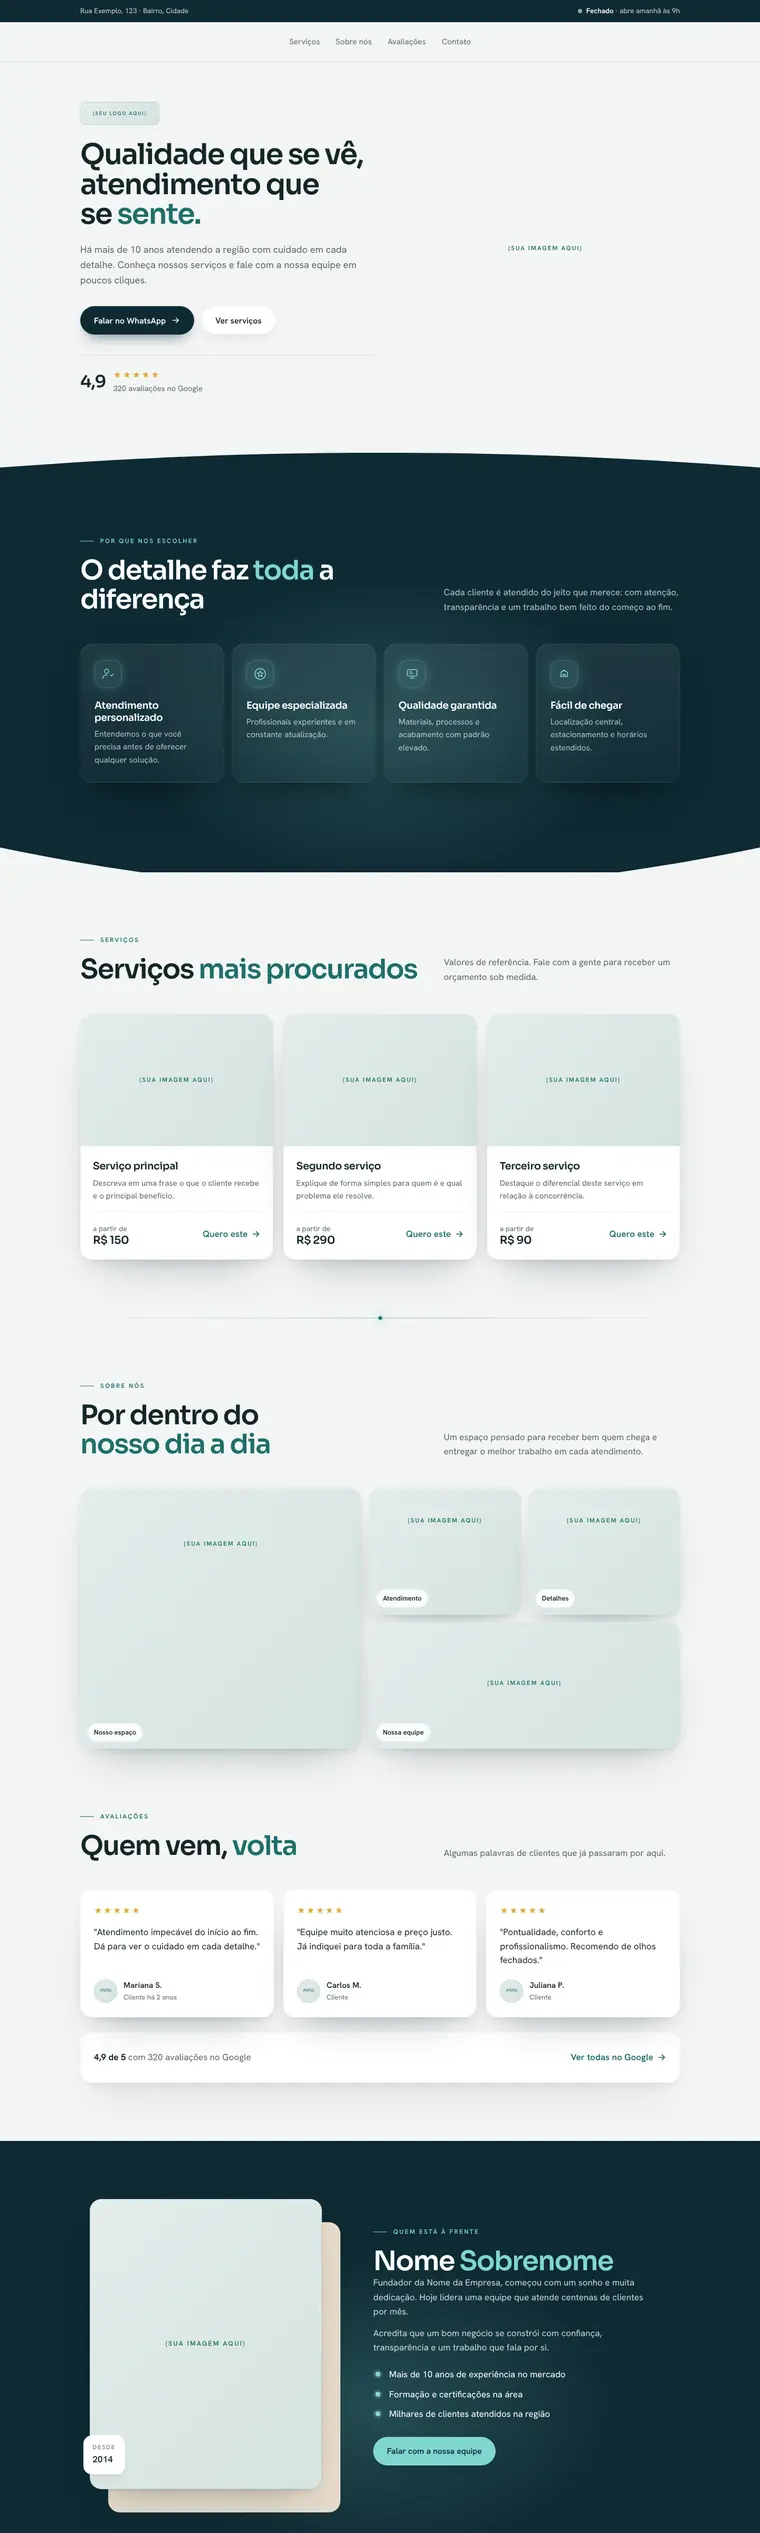
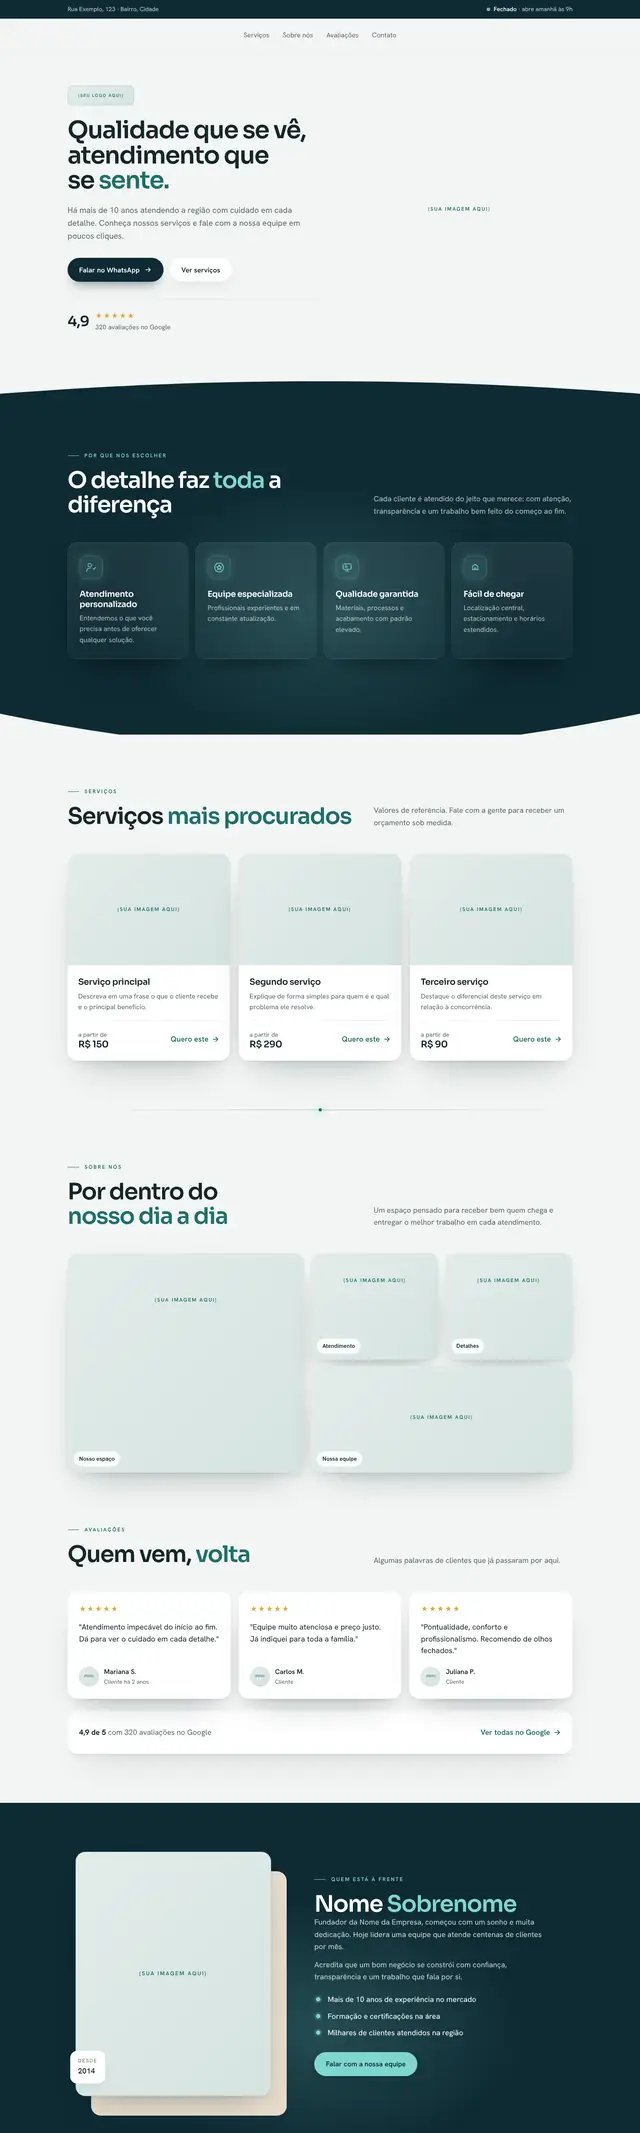
Paginas prontas: imagens responsivas e fonte sem bloqueio para PageSpeed
Claude-Session: https://claude.ai/code/session_01EaM6VvDLUoZy8CCgGzWRPs

Changed region(s): [[0.1875, 0.2166, 0.2188, 0.2475]]

diff --git a/ketlin-espinoza-site/paginas-prontas.html b/ketlin-espinoza-site/paginas-prontas.html
@@ -11,7 +11,7 @@
 <meta name="theme-color" content="#170930">
 <link rel="preconnect" href="https://fonts.googleapis.com">
 <link rel="preconnect" href="https://fonts.gstatic.com" crossorigin>
-<link href="https://fonts.googleapis.com/css2?family=Poppins:wght@400;500;600;700;800&display=swap" rel="stylesheet">
+<link rel="preload" as="style" href="https://fonts.googleapis.com/css2?family=Poppins:wght@400;500;600;700;800&display=swap"><link href="https://fonts.googleapis.com/css2?family=Poppins:wght@400;500;600;700;800&display=swap" rel="stylesheet" media="print" onload="this.media='all'"><noscript><link href="https://fonts.googleapis.com/css2?family=Poppins:wght@400;500;600;700;800&display=swap" rel="stylesheet"></noscript>
 <style>
 /* =========================================================
    CORES E FONTES (identidade ketlinespinozadesign.com)
@@ -305,7 +305,7 @@ document.addEventListener('click',function(e){if(!window.fbq||!e.target.closest)
 <body>
 
 <!-- 1. LOGO + PRÉ-HEADLINE -->
-<div class="logo-bar"><img src="/imagens/paginas-prontas/pp-0dfd213a83.webp" alt="Páginas Prontas para Personalizar com IA" width="640" height="159"></div>
+<div class="logo-bar"><img src="/imagens/paginas-prontas/pp-0dfd213a83.webp" srcset="/imagens/paginas-prontas/pp-0dfd213a83-320.webp 320w, /imagens/paginas-prontas/pp-0dfd213a83.webp 640w" sizes="190px" alt="Páginas Prontas para Personalizar com IA" width="640" height="159"></div>
 <div class="pre"><p>Você precisa de uma página, mas <span>trava toda vez</span> que tenta criar?</p></div>
 
 <!-- 2. HERO -->
@@ -320,7 +320,7 @@ document.addEventListener('click',function(e){if(!window.fbq||!e.target.closest)
         <span>Publicação grátis</span>
       </div>
     </div>
-    <img class="hero-img" src="/imagens/paginas-prontas/pp-d163bc916a.webp" alt="Páginas Prontas para Personalizar com IA no notebook e no celular" width="900" height="1041" fetchpriority="high">
+    <img class="hero-img" src="/imagens/paginas-prontas/pp-d163bc916a.webp" srcset="/imagens/paginas-prontas/pp-d163bc916a-540.webp 540w, /imagens/paginas-prontas/pp-d163bc916a.webp 900w" sizes="(max-width:520px) 90vw, (max-width:860px) 480px, 436px" alt="Páginas Prontas para Personalizar com IA no notebook e no celular" width="900" height="1041" fetchpriority="high">
   </div>
 </header>
 
@@ -330,7 +330,7 @@ document.addEventListener('click',function(e){if(!window.fbq||!e.target.closest)
     <h2 class="h2 estreito vitrine-tit">Veja abaixo as <mark>páginas prontas</mark> que você vai receber</h2>
     <div class="vitrine">
       <button class="seta ant" aria-label="Anterior" onclick="rolar(-1)"><svg viewBox="0 0 24 24" fill="none" stroke="currentColor" stroke-width="2.5" stroke-linecap="round"><path d="M15 6l-6 6 6 6"/></svg></button>
-      <div class="galeria" id="galeria"><div class="print"><div class="tela"><i><b></b><b></b><b></b></i><picture class="pc"><img loading="lazy" src="/imagens/paginas-prontas/pp-desk-01.webp" alt="Template Página de Captura" width="760" height="1013"></picture><div class="cel"><img loading="lazy" src="/imagens/paginas-prontas/pp-cel-01.webp" alt="Versão celular" width="240" height="492"></div></div><p><small>PÁGINA 01</small>Página de Captura</p></div><div class="print"><div class="tela"><i><b></b><b></b><b></b></i><picture class="pc"><img loading="lazy" src="/imagens/paginas-prontas/pp-desk-02.webp" alt="Template Página de Vendas" width="760" height="1013"></picture><div class="cel"><img loading="lazy" src="/imagens/paginas-prontas/pp-cel-02.webp" alt="Versão celular" width="240" height="492"></div></div><p><small>PÁGINA 02</small>Página de Vendas</p></div><div class="print"><div class="tela"><i><b></b><b></b><b></b></i><picture class="pc"><img loading="lazy" src="/imagens/paginas-prontas/pp-desk-03.webp" alt="Template Link na Bio" width="760" height="1013"></picture><div class="cel"><img loading="lazy" src="/imagens/paginas-prontas/pp-cel-03.webp" alt="Versão celular" width="240" height="492"></div></div><p><small>PÁGINA 03</small>Link na Bio</p></div><div class="print"><div class="tela"><i><b></b><b></b><b></b></i><picture class="pc"><img loading="lazy" src="/imagens/paginas-prontas/pp-desk-04.webp" alt="Template Cartão de Visita Digital" width="760" height="1013"></picture><div class="cel"><img loading="lazy" src="/imagens/paginas-prontas/pp-cel-04.webp" alt="Versão celular" width="240" height="492"></div></div><p><small>PÁGINA 04</small>Cartão de Visita Digital</p></div><div class="print"><div class="tela"><i><b></b><b></b><b></b></i><picture class="pc"><img loading="lazy" src="/imagens/paginas-prontas/pp-desk-05.webp" alt="Template Página VSL" width="760" height="1013"></picture><div class="cel"><img loading="lazy" src="/imagens/paginas-prontas/pp-cel-05.webp" alt="Versão celular" width="240" height="492"></div></div><p><small>PÁGINA 05</small>Página VSL</p></div><div class="print"><div class="tela"><i><b></b><b></b><b></b></i><picture class="pc"><img loading="lazy" src="/imagens/paginas-prontas/pp-desk-06.webp" alt="Template Serviço Local" width="760" height="1013"></picture><div class="cel"><img loading="lazy" src="/imagens/paginas-prontas/pp-cel-06.webp" alt="Versão celular" width="240" height="492"></div></div><p><small>PÁGINA 06</small>Serviço Local</p></div><div class="print"><div class="tela"><i><b></b><b></b><b></b></i><picture class="pc"><img loading="lazy" src="/imagens/paginas-prontas/pp-desk-07.webp" alt="Template Agendamento pelo WhatsApp" width="760" height="1013"></picture><div class="cel"><img loading="lazy" src="/imagens/paginas-prontas/pp-cel-07.webp" alt="Versão celular" width="240" height="492"></div></div><p><small>PÁGINA 07</small>Agendamento pelo WhatsApp</p></div><div class="print"><div class="tela"><i><b></b><b></b><b></b></i><picture class="pc"><img loading="lazy" src="/imagens/paginas-prontas/pp-desk-08.webp" alt="Template Evento e Workshop" width="760" height="1013"></picture><div class="cel"><img loading="lazy" src="/imagens/paginas-prontas/pp-cel-08.webp" alt="Versão celular" width="240" height="492"></div></div><p><small>PÁGINA 08</small>Evento e Workshop</p></div><div class="print"><div class="tela"><i><b></b><b></b><b></b></i><picture class="pc"><img loading="lazy" src="/imagens/paginas-prontas/pp-desk-09.webp" alt="Template Página de Aplicação" width="760" height="1013"></picture><div class="cel"><img loading="lazy" src="/imagens/paginas-prontas/pp-cel-09.webp" alt="Versão celular" width="240" height="492"></div></div><p><small>PÁGINA 09</small>Página de Aplicação</p></div><div class="print"><div class="tela"><i><b></b><b></b><b></b></i><picture class="pc"><img loading="lazy" src="/imagens/paginas-prontas/pp-desk-10.webp" alt="Template Página de Obrigado" width="760" height="1013"></picture><div class="cel"><img loading="lazy" src="/imagens/paginas-prontas/pp-cel-10.webp" alt="Versão celular" width="240" height="492"></div></div><p><small>PÁGINA 10</small>Página de Obrigado</p></div></div>
+      <div class="galeria" id="galeria"><div class="print"><div class="tela"><i><b></b><b></b><b></b></i><picture class="pc"><img loading="lazy" src="/imagens/paginas-prontas/pp-desk-01.webp" srcset="/imagens/paginas-prontas/pp-desk-01-420.webp 420w, /imagens/paginas-prontas/pp-desk-01.webp 640w" sizes="(max-width:860px) 70vw, 330px" alt="Template Página de Captura" width="640" height="853" decoding="async"></picture><div class="cel"><img loading="lazy" src="/imagens/paginas-prontas/pp-cel-01.webp" srcset="/imagens/paginas-prontas/pp-cel-01-120.webp 120w, /imagens/paginas-prontas/pp-cel-01.webp 200w" sizes="(max-width:860px) 70px, 100px" alt="Versão celular" width="200" height="410" decoding="async"></div></div><p><small>PÁGINA 01</small>Página de Captura</p></div><div class="print"><div class="tela"><i><b></b><b></b><b></b></i><picture class="pc"><img loading="lazy" src="/imagens/paginas-prontas/pp-desk-02.webp" srcset="/imagens/paginas-prontas/pp-desk-02-420.webp 420w, /imagens/paginas-prontas/pp-desk-02.webp 640w" sizes="(max-width:860px) 70vw, 330px" alt="Template Página de Vendas" width="640" height="853" decoding="async"></picture><div class="cel"><img loading="lazy" src="/imagens/paginas-prontas/pp-cel-02.webp" srcset="/imagens/paginas-prontas/pp-cel-02-120.webp 120w, /imagens/paginas-prontas/pp-cel-02.webp 200w" sizes="(max-width:860px) 70px, 100px" alt="Versão celular" width="200" height="410" decoding="async"></div></div><p><small>PÁGINA 02</small>Página de Vendas</p></div><div class="print"><div class="tela"><i><b></b><b></b><b></b></i><picture class="pc"><img loading="lazy" src="/imagens/paginas-prontas/pp-desk-03.webp" srcset="/imagens/paginas-prontas/pp-desk-03-420.webp 420w, /imagens/paginas-prontas/pp-desk-03.webp 640w" sizes="(max-width:860px) 70vw, 330px" alt="Template Link na Bio" width="640" height="853" decoding="async"></picture><div class="cel"><img loading="lazy" src="/imagens/paginas-prontas/pp-cel-03.webp" srcset="/imagens/paginas-prontas/pp-cel-03-120.webp 120w, /imagens/paginas-prontas/pp-cel-03.webp 200w" sizes="(max-width:860px) 70px, 100px" alt="Versão celular" width="200" height="410" decoding="async"></div></div><p><small>PÁGINA 03</small>Link na Bio</p></div><div class="print"><div class="tela"><i><b></b><b></b><b></b></i><picture class="pc"><img loading="lazy" src="/imagens/paginas-prontas/pp-desk-04.webp" srcset="/imagens/paginas-prontas/pp-desk-04-420.webp 420w, /imagens/paginas-prontas/pp-desk-04.webp 640w" sizes="(max-width:860px) 70vw, 330px" alt="Template Cartão de Visita Digital" width="640" height="853" decoding="async"></picture><div class="cel"><img loading="lazy" src="/imagens/paginas-prontas/pp-cel-04.webp" srcset="/imagens/paginas-prontas/pp-cel-04-120.webp 120w, /imagens/paginas-prontas/pp-cel-04.webp 200w" sizes="(max-width:860px) 70px, 100px" alt="Versão celular" width="200" height="410" decoding="async"></div></div><p><small>PÁGINA 04</small>Cartão de Visita Digital</p></div><div class="print"><div class="tela"><i><b></b><b></b><b></b></i><picture class="pc"><img loading="lazy" src="/imagens/paginas-prontas/pp-desk-05.webp" srcset="/imagens/paginas-prontas/pp-desk-05-420.webp 420w, /imagens/paginas-prontas/pp-desk-05.webp 640w" sizes="(max-width:860px) 70vw, 330px" alt="Template Página VSL" width="640" height="853" decoding="async"></picture><div class="cel"><img loading="lazy" src="/imagens/paginas-prontas/pp-cel-05.webp" srcset="/imagens/paginas-prontas/pp-cel-05-120.webp 120w, /imagens/paginas-prontas/pp-cel-05.webp 200w" sizes="(max-width:860px) 70px, 100px" alt="Versão celular" width="200" height="410" decoding="async"></div></div><p><small>PÁGINA 05</small>Página VSL</p></div><div class="print"><div class="tela"><i><b></b><b></b><b></b></i><picture class="pc"><img loading="lazy" src="/imagens/paginas-prontas/pp-desk-06.webp" srcset="/imagens/paginas-prontas/pp-desk-06-420.webp 420w, /imagens/paginas-prontas/pp-desk-06.webp 640w" sizes="(max-width:860px) 70vw, 330px" alt="Template Serviço Local" width="640" height="853" decoding="async"></picture><div class="cel"><img loading="lazy" src="/imagens/paginas-prontas/pp-cel-06.webp" srcset="/imagens/paginas-prontas/pp-cel-06-120.webp 120w, /imagens/paginas-prontas/pp-cel-06.webp 200w" sizes="(max-width:860px) 70px, 100px" alt="Versão celular" width="200" height="410" decoding="async"></div></div><p><small>PÁGINA 06</small>Serviço Local</p></div><div class="print"><div class="tela"><i><b></b><b></b><b></b></i><picture class="pc"><img loading="lazy" src="/imagens/paginas-prontas/pp-desk-07.webp" srcset="/imagens/paginas-prontas/pp-desk-07-420.webp 420w, /imagens/paginas-prontas/pp-desk-07.webp 640w" sizes="(max-width:860px) 70vw, 330px" alt="Template Agendamento pelo WhatsApp" width="640" height="853" decoding="async"></picture><div class="cel"><img loading="lazy" src="/imagens/paginas-prontas/pp-cel-07.webp" srcset="/imagens/paginas-prontas/pp-cel-07-120.webp 120w, /imagens/paginas-prontas/pp-cel-07.webp 200w" sizes="(max-width:860px) 70px, 100px" alt="Versão celular" width="200" height="410" decoding="async"></div></div><p><small>PÁGINA 07</small>Agendamento pelo WhatsApp</p></div><div class="print"><div class="tela"><i><b></b><b></b><b></b></i><picture class="pc"><img loading="lazy" src="/imagens/paginas-prontas/pp-desk-08.webp" srcset="/imagens/paginas-prontas/pp-desk-08-420.webp 420w, /imagens/paginas-prontas/pp-desk-08.webp 640w" sizes="(max-width:860px) 70vw, 330px" alt="Template Evento e Workshop" width="640" height="853" decoding="async"></picture><div class="cel"><img loading="lazy" src="/imagens/paginas-prontas/pp-cel-08.webp" srcset="/imagens/paginas-prontas/pp-cel-08-120.webp 120w, /imagens/paginas-prontas/pp-cel-08.webp 200w" sizes="(max-width:860px) 70px, 100px" alt="Versão celular" width="200" height="410" decoding="async"></div></div><p><small>PÁGINA 08</small>Evento e Workshop</p></div><div class="print"><div class="tela"><i><b></b><b></b><b></b></i><picture class="pc"><img loading="lazy" src="/imagens/paginas-prontas/pp-desk-09.webp" srcset="/imagens/paginas-prontas/pp-desk-09-420.webp 420w, /imagens/paginas-prontas/pp-desk-09.webp 640w" sizes="(max-width:860px) 70vw, 330px" alt="Template Página de Aplicação" width="640" height="853" decoding="async"></picture><div class="cel"><img loading="lazy" src="/imagens/paginas-prontas/pp-cel-09.webp" srcset="/imagens/paginas-prontas/pp-cel-09-120.webp 120w, /imagens/paginas-prontas/pp-cel-09.webp 200w" sizes="(max-width:860px) 70px, 100px" alt="Versão celular" width="200" height="410" decoding="async"></div></div><p><small>PÁGINA 09</small>Página de Aplicação</p></div><div class="print"><div class="tela"><i><b></b><b></b><b></b></i><picture class="pc"><img loading="lazy" src="/imagens/paginas-prontas/pp-desk-10.webp" srcset="/imagens/paginas-prontas/pp-desk-10-420.webp 420w, /imagens/paginas-prontas/pp-desk-10.webp 640w" sizes="(max-width:860px) 70vw, 330px" alt="Template Página de Obrigado" width="640" height="853" decoding="async"></picture><div class="cel"><img loading="lazy" src="/imagens/paginas-prontas/pp-cel-10.webp" srcset="/imagens/paginas-prontas/pp-cel-10-120.webp 120w, /imagens/paginas-prontas/pp-cel-10.webp 200w" sizes="(max-width:860px) 70px, 100px" alt="Versão celular" width="200" height="410" decoding="async"></div></div><p><small>PÁGINA 10</small>Página de Obrigado</p></div></div>
       <button class="seta prox" aria-label="Próxima" onclick="rolar(1)"><svg viewBox="0 0 24 24" fill="none" stroke="currentColor" stroke-width="2.5" stroke-linecap="round"><path d="M9 6l6 6-6 6"/></svg></button>
     </div>
     <p class="dica">Arraste para o lado para ver as 10 páginas →</p>
@@ -343,7 +343,7 @@ document.addEventListener('click',function(e){if(!window.fbq||!e.target.closest)
     <p class="kicker">Eu sei...</p>
     <h2 class="h2 estreito">Você precisa de uma página para vender, captar clientes ou subir uma campanha, mas <mark>sempre trava</mark> na hora de fazer, não é mesmo?</h2>
     <p class="sub" style="margin-top:20px">Por isso, toda vez que precisa de uma página, você pensa:</p>
-    <img class="dores" loading="lazy" src="/imagens/paginas-prontas/pp-fde0413002.webp" alt="Pensamentos de quem trava na hora de criar uma página" width="800" height="862">
+    <img class="dores" loading="lazy" src="/imagens/paginas-prontas/pp-fde0413002.webp" srcset="/imagens/paginas-prontas/pp-fde0413002-480.webp 480w, /imagens/paginas-prontas/pp-fde0413002.webp 800w" sizes="(max-width:520px) 90vw, 520px" alt="Pensamentos de quem trava na hora de criar uma página" width="800" height="862">
     <p class="forte">Isso só acontece porque você ainda não tem uma <mark>página pronta e profissional</mark> para só trocar as informações e colocar no ar.</p>
   </div>
 </section>
@@ -596,7 +596,7 @@ document.addEventListener('click',function(e){if(!window.fbq||!e.target.closest)
 <!-- 24. RODAPÉ -->
 <footer class="rodape">
   <div class="w">
-    <img src="/imagens/paginas-prontas/pp-1f3ba5f23b.webp" alt="Páginas Prontas para Personalizar com IA" width="640" height="159">
+    <img src="/imagens/paginas-prontas/pp-1f3ba5f23b.webp" srcset="/imagens/paginas-prontas/pp-1f3ba5f23b-320.webp 320w, /imagens/paginas-prontas/pp-1f3ba5f23b.webp 640w" sizes="190px" alt="Páginas Prontas para Personalizar com IA" width="640" height="159">
     <p class="duv">Tem alguma dúvida?</p>
     <a class="zap" href="https://wa.me/5554999006742?text=Ol%C3%A1!%20Tenho%20uma%20d%C3%BAvida%20sobre%20as%20P%C3%A1ginas%20Prontas%20para%20Personalizar%20com%20IA." target="_blank" rel="noopener"><svg viewBox="0 0 24 24" fill="currentColor"><path d="M17.5 14.4c-.3-.1-1.8-.9-2-1-.3-.1-.5-.1-.7.1-.2.3-.8 1-.9 1.2-.2.2-.3.2-.6.1-.3-.1-1.3-.5-2.4-1.5-.9-.8-1.5-1.8-1.7-2.1-.2-.3 0-.5.1-.6l.4-.5c.2-.2.2-.3.3-.5.1-.2 0-.4 0-.5l-.9-2.2c-.2-.6-.5-.5-.7-.5h-.6c-.2 0-.5.1-.8.4-.3.3-1 1-1 2.5s1.1 2.9 1.2 3.1c.1.2 2.1 3.2 5.1 4.5.7.3 1.3.5 1.7.6.7.2 1.4.2 1.9.1.6-.1 1.8-.7 2-1.4.2-.7.2-1.3.2-1.4-.1-.1-.3-.2-.6-.3zM12 21.8c-1.8 0-3.5-.5-5-1.4l-.4-.2-3.7 1 1-3.6-.2-.4A9.8 9.8 0 1 1 12 21.8zm0-21.6C5.5.2.2 5.5.2 12c0 2.1.5 4.1 1.6 5.9L.1 24l6.3-1.7A11.8 11.8 0 0 0 12 23.8c6.5 0 11.8-5.3 11.8-11.8S18.5.2 12 .2z"/></svg>Fale comigo no WhatsApp</a>
     <p class="disc">Este site não é afiliado ao Facebook ou a qualquer entidade do Facebook. Depois que você sair do Facebook, a responsabilidade não é deles e sim do nosso site. A compra deste material não garante nenhum tipo de resultado.</p>
